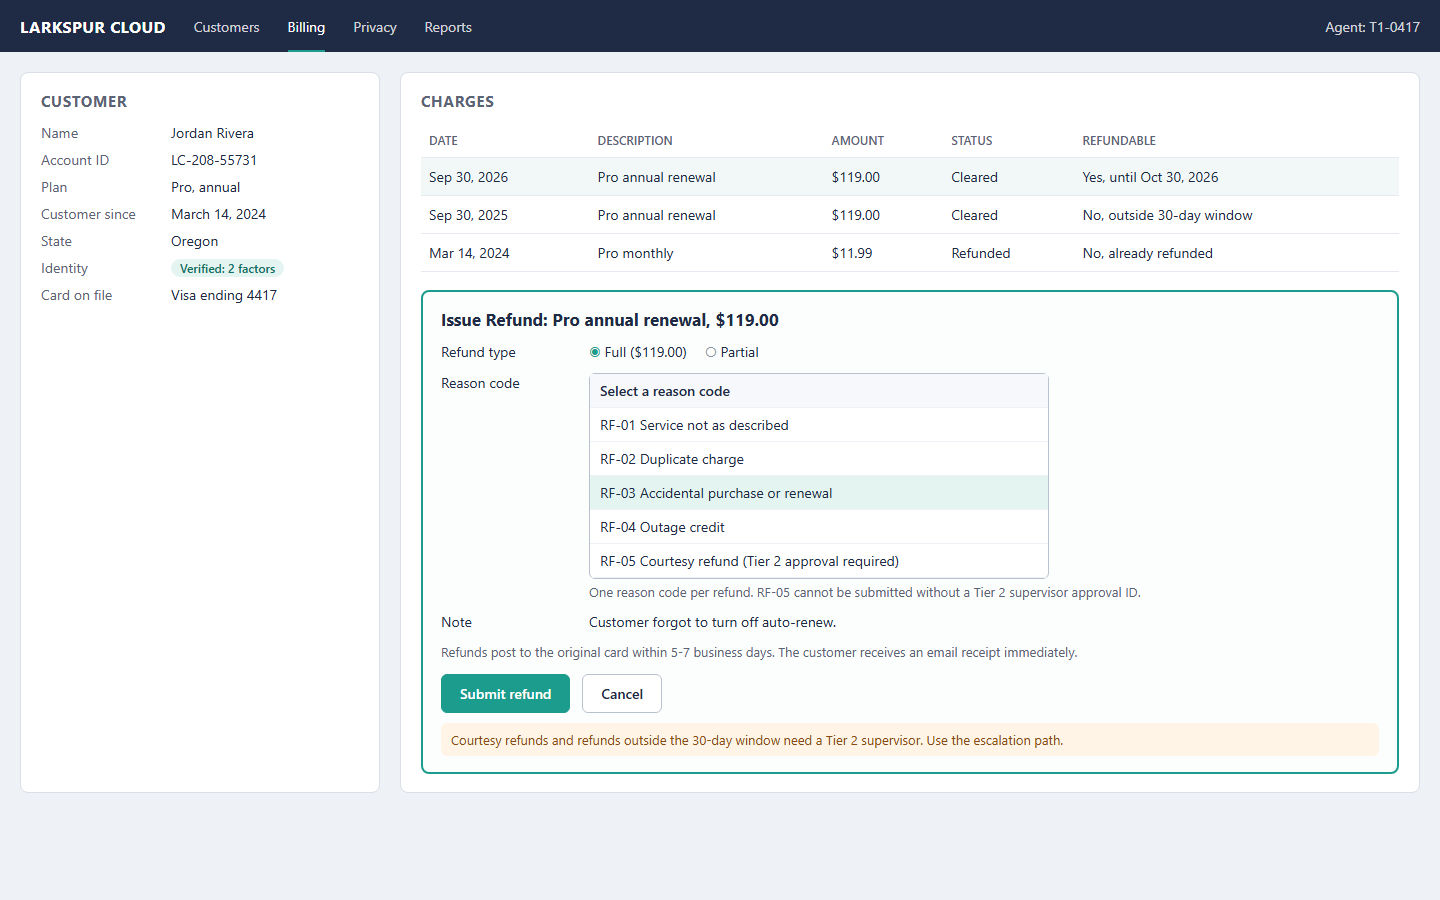
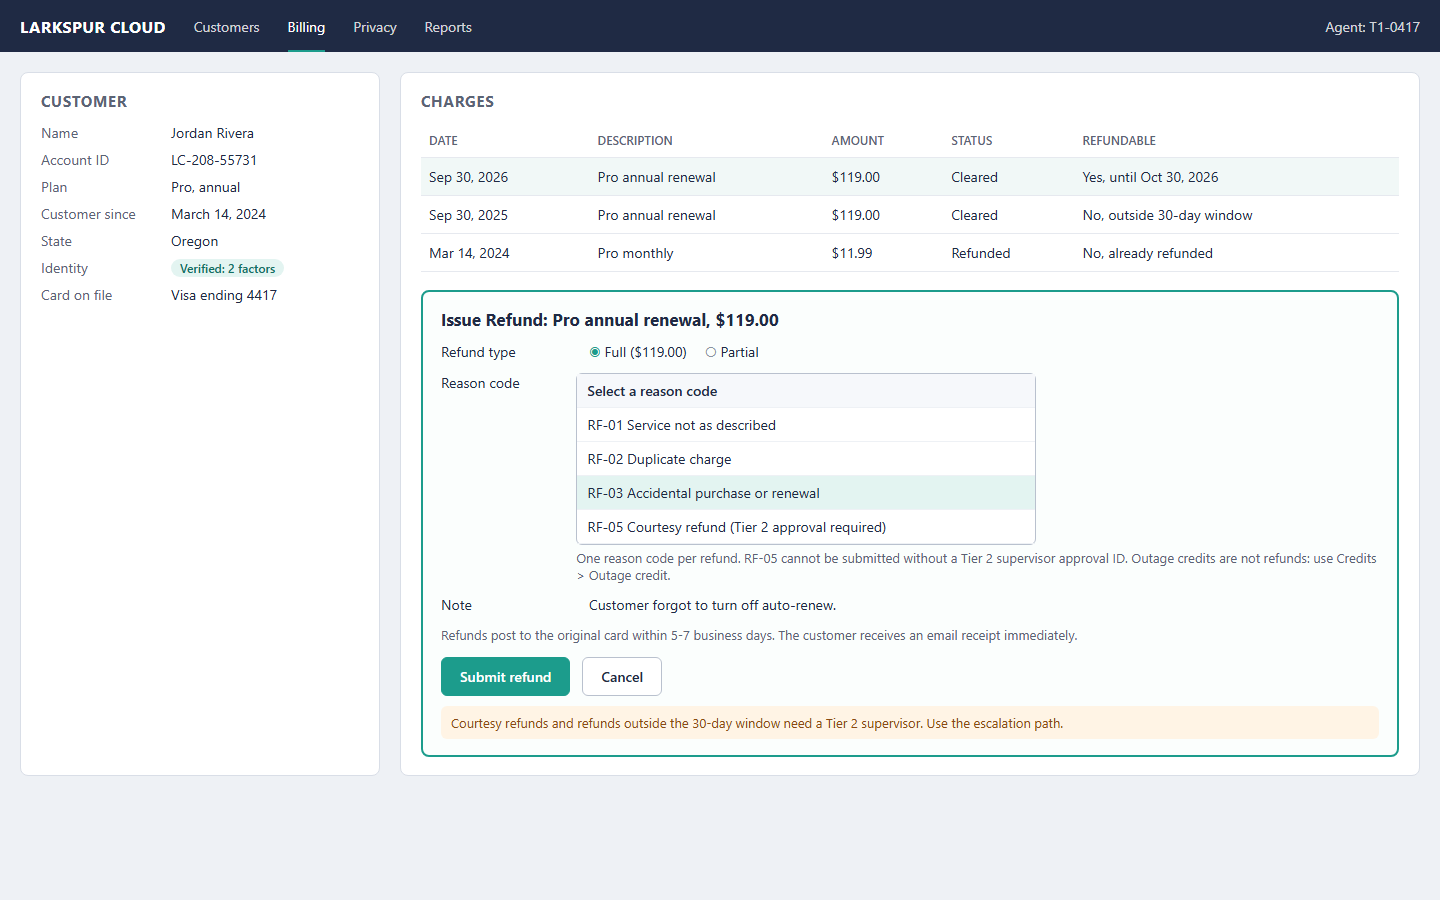
Keep outage credits out of the refund reason codes
The refund procedure and billing screenshot listed RF-04 Outage credit as
a card refund, while the outage FAQ says credits go on the next invoice
and are never paid to a card. RF-04 is now retired: outage credits use
Credits > Outage credit in the billing console. Found by Codex review.

Changed region(s): [[0.2812, 0.4044, 0.9688, 0.8711], [0.875, 0.5911, 0.9062, 0.6222]]

diff --git a/docs/demo-kb/source/billing-console-refund.html b/docs/demo-kb/source/billing-console-refund.html
@@ -61,10 +61,9 @@ tr.sel { background: #f1f8f7; }
           <div>RF-01 Service not as described</div>
           <div>RF-02 Duplicate charge</div>
           <div class="hi">RF-03 Accidental purchase or renewal</div>
-          <div>RF-04 Outage credit</div>
           <div>RF-05 Courtesy refund (Tier 2 approval required)</div>
         </div>
-        <div class="note">One reason code per refund. RF-05 cannot be submitted without a Tier 2 supervisor approval ID.</div></div></div>
+        <div class="note">One reason code per refund. RF-05 cannot be submitted without a Tier 2 supervisor approval ID. Outage credits are not refunds: use Credits &gt; Outage credit.</div></div></div>
       <div class="row"><div style="width:120px">Note</div><div>Customer forgot to turn off auto-renew.</div></div>
       <div class="note">Refunds post to the original card within 5-7 business days. The customer receives an email receipt immediately.</div>
       <div class="btns"><span class="btn primary">Submit refund</span><span class="btn">Cancel</span></div>

diff --git a/docs/demo-kb/source/build_docx.py b/docs/demo-kb/source/build_docx.py
@@ -93,7 +93,7 @@ def refund_procedure(out):
         "Open the most recent charge in the billing console.",
         "Select Issue Refund.",
         "Choose Full or Partial. A partial refund needs the amount in dollars and cents.",
-        "Add a one-line reason code (RF-01 to RF-05).",
+        "Add a one-line reason code (RF-01, RF-02, RF-03 or RF-05).",
         "Submit the refund. It will post to the original card within 5-7 business days.",
     ], style="List Number")
     h(doc, "Reason codes")
@@ -102,9 +102,9 @@ def refund_procedure(out):
         ["RF-01", "Service not as described", "None"],
         ["RF-02", "Duplicate charge", "None; also open a Billing Operations ticket"],
         ["RF-03", "Accidental purchase or renewal", "None"],
-        ["RF-04", "Outage credit (Enterprise SLA)", "Billing Operations confirms uptime"],
         ["RF-05", "Courtesy refund", "Tier 2 supervisor approval ID required"],
     ])
+    para(doc, "RF-04 is retired. Enterprise outage credits are not refunds: they go on the next invoice through Credits > Outage credit in the billing console, never to a card (see the Outages and Service Credits FAQ).", "Outage credits: ")
     h(doc, "Escalation and approval")
     para(doc, "If the customer disputes the amount or the refund window, escalate the request to a Tier 2 supervisor within 15 minutes.")
     para(doc, "Do not issue a courtesy refund without approval from a Tier 2 supervisor.")

diff --git a/docs/demo-kb/files/outage-and-service-credits-faq.md b/docs/demo-kb/files/outage-and-service-credits-faq.md
@@ -21,7 +21,7 @@ Basic and Pro plans have no uptime commitment and no automatic credit. A Tier 2 
 
 ## How does an Enterprise customer claim a credit?
 
-The account administrator must request it within 30 days after the end of the month in which the outage happened. Submit the request with reason code RF-04 (Outage credit). Billing Operations confirms the uptime figure and applies the credit to the next invoice. Credits are never paid out as cash refunds.
+The account administrator must request it within 30 days after the end of the month in which the outage happened. Submit the request in the billing console under Credits > Outage credit, not through Issue Refund. Billing Operations confirms the uptime figure and applies the credit to the next invoice. Credits are never paid out as cash refunds or to a card.
 
 ## What if the customer wants to cancel because of an outage?
 
